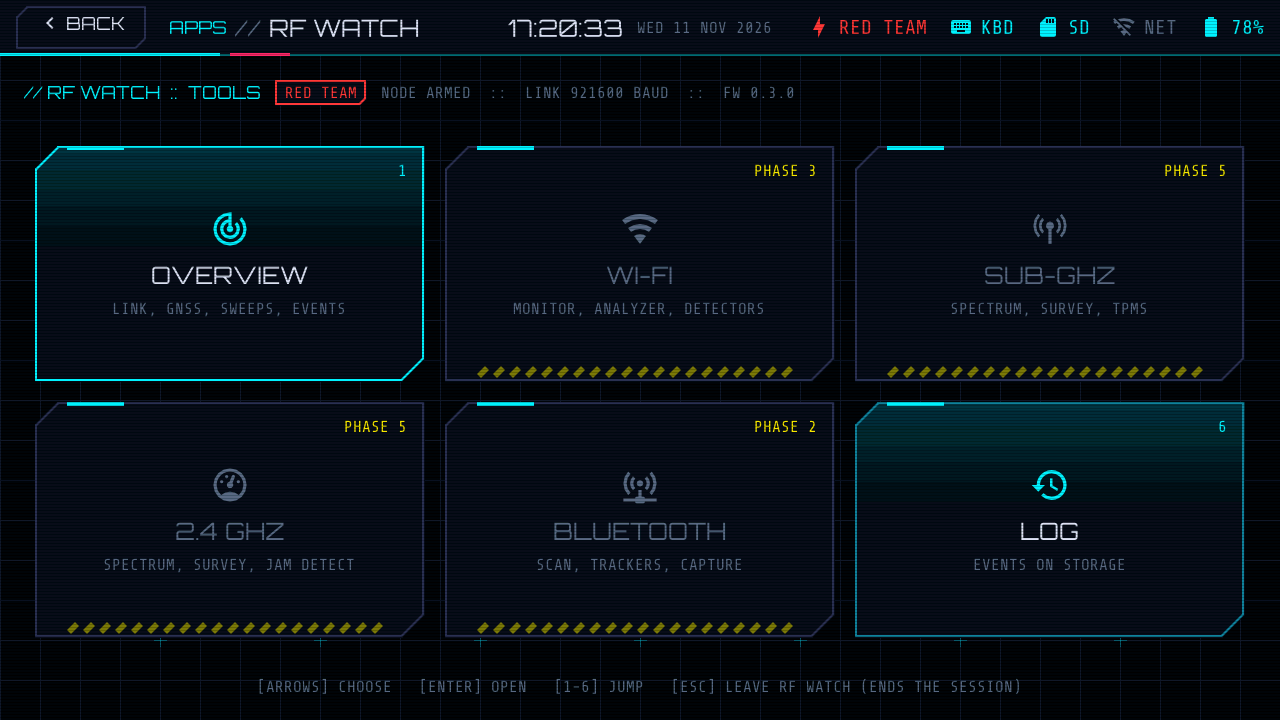
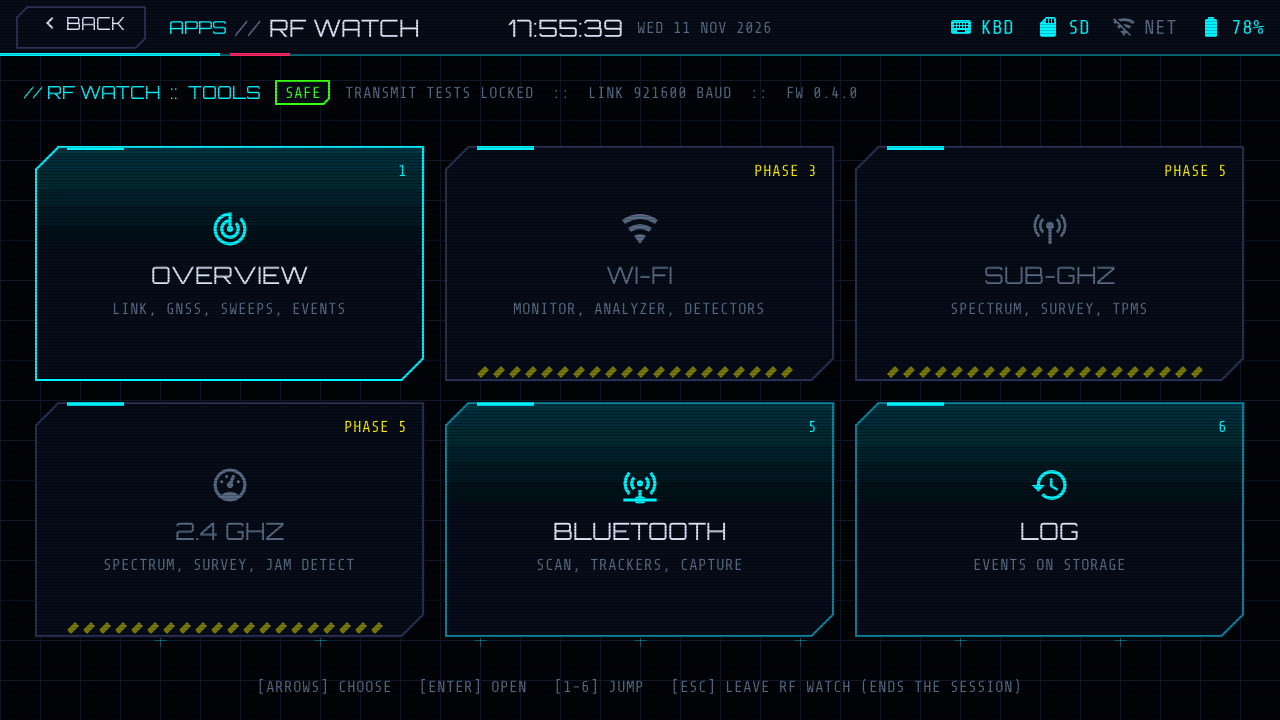
RF WATCH documents: Bluetooth
README describes the BLUETOOTH tool, the labels and the following rule,
with a screenshot. ROADMAP records phase 2 and its hardware checkpoint.
Recognised, harmless devices are drawn in the accent color, not the one
that reads as a warning.

diff --git a/apps/app_rf/rf_ble.c b/apps/app_rf/rf_ble.c
@@ -59,7 +59,7 @@ static lv_color_t kind_color(const sentinel_bdv_t *d, bool mine)
     if (mine) return g_pal.ok;
     if (sentinel_ble_is_surveillance(d->kind)) return g_pal.danger;
     if (sentinel_ble_is_tracker(d->kind)) return g_pal.warn;
-    return d->kind == SENTINEL_BLE_UNKNOWN ? g_pal.text : g_pal.accent2;
+    return d->kind == SENTINEL_BLE_UNKNOWN ? g_pal.text : g_pal.accent; /* recognised and harmless */
 }
 
 static void upper(char *s)
@@ -264,7 +264,7 @@ void rf_ble_build(lv_obj_t *parent)
     s_ble.sel_kind  = deck_label(p, g_font.disp_s, g_pal.text, "");
     s_ble.sel_who   = deck_label(p, g_font.mono_s, g_pal.text, "");
     s_ble.sel_sig   = deck_label(p, g_font.mono_s, g_pal.dim, "");
-    s_ble.sel_track = deck_label(p, g_font.mono_s, g_pal.accent2, "");
+    s_ble.sel_track = deck_label(p, g_font.mono_s, g_pal.dim, "");
     lv_obj_t *wrap[] = {s_ble.sel_who, s_ble.sel_track, s_ble.sel_kind};
     for (size_t i = 0; i < sizeof(wrap) / sizeof(wrap[0]); i++) {
         lv_obj_set_width(wrap[i], LV_PCT(100));

diff --git a/README.md b/README.md
@@ -56,9 +56,22 @@ health, the session, GNSS (fix, satellites, position, C/N0), the networks
 the C5 hears, the 433 MHz sweep (21 channels with peak hold), 2.4 GHz
 occupancy (126 channels of nRF24 carrier detect) and the newest events;
 `H` asks the C5 for HELLO, `P` pings it, `T` knocks on the transmit gate.
-**LOG** shows today's events from storage, newest first, with where the
-deck was. WI-FI, SUB-GHZ, 2.4 GHZ and BLUETOOTH are placeholders for the
+**BLUETOOTH** lists every BLE advertiser in earshot, strongest first, and
+labels what it recognises: trackers away from their owner (AirTag and other
+Find My tags, SmartTag, Tile, Chipolo, Google trackers) in yellow,
+surveillance devices (Flock by name, Axon by address prefix) in red. `F`
+filters, `M` marks a device as yours so it never alerts, `C` records every
+advertisement to a pcap file on the SD card. The scan is passive: the C5
+sends nothing. **LOG** shows today's events from storage, newest first, with
+where the deck was. WI-FI, SUB-GHZ and 2.4 GHZ are placeholders for the
 phases in the rf-sentinel ROADMAP.
+
+Tracker and surveillance detection run in the background too, in any app.
+A tracker heard for the first time is a line in the log. A tracker that
+stays with you is a warning: heard for ten minutes while the deck moved
+300 m, or for thirty minutes when there is no GPS fix to tell moving from
+sitting still. A label is a match against a published format, not proof,
+and a tracker that changes its address starts over as a new device.
 
 While RF WATCH is switched on in SETTINGS > APPLICATIONS the board is
 powered (EXT5V on the bus, CC1101 front end in receive: RX_EN on G16 high,
@@ -77,6 +90,8 @@ keyboard and nothing makes a sound. Switching the app off cuts EXT5V.
 | OVERVIEW | A warning while in TERMINAL |
 |---|---|
 | ![RF WATCH overview](docs/screenshots/rf_overview.png) | ![Notice banner](docs/screenshots/rf_banner.png) |
+
+![RF WATCH Bluetooth](docs/screenshots/rf_bluetooth.png)
 
 The protocol, the state record, the link state machine and the log formats
 are `sentinel_core`, a portable library in the rf-sentinel repo that the C5

diff --git a/ROADMAP.md b/ROADMAP.md
@@ -206,7 +206,8 @@ transmits is aimed at one chosen target, only in a RED TEAM session with
 the arm lease held. The full list is in the rf-sentinel ROADMAP; each phase
 adds a tool behind one of the placeholder tiles.
 
-- [ ] Phase 2, BLUETOOTH: scan, tracker alert (AirTag and friends), Flock and Axon detect, capture to pcap
+- [x] Phase 2, BLUETOOTH (with rf-sentinel 0.4.0): a passive scan on the C5, every advertiser listed with what it is, trackers and surveillance devices labelled, a warning when a tracker stays with the deck (ten minutes and 300 m, or thirty minutes without a fix), mark-as-mine, capture to pcap; detection runs in the background
+- [x] Checkpoint on hardware (2026-11-11): 62 real devices listed with names and vendors, Find My devices told apart by whether their owner is near, about 30 advertisements a second while sharing the radio with Wi-Fi and about 190 with the tool open, 2,057 frames captured to SD in 12 s with none lost, the radio handed back on leaving. The following rule is covered by tests only: it cannot be walked on a bench
 - [ ] Phase 3, WI-FI: packet monitor waterfall, channel analyzer, drone detect, attack detectors, honeypot
 - [ ] Phase 4: wardriving across every radio with GPS, record-only
 - [ ] Phase 5, SUB-GHZ and 2.4 GHZ: spectrum analyzer with history, IoT site survey, TPMS (433.92 MHz), jam detection

diff --git a/docs/superpowers/specs/2026-11-11-sentinel-suite-phase2-bluetooth-design.md b/docs/superpowers/specs/2026-11-11-sentinel-suite-phase2-bluetooth-design.md
@@ -101,3 +101,11 @@ a fix, marking, and address rotation. Simulator screenshots of the tool.
 Hardware: the C5 lists the real devices in the room, the deck shows them,
 capture writes frames. The following rule cannot be walked on the bench; it
 is covered by the core tests only.
+
+## As built (2026-11-11)
+
+Built as designed. On the Tab5 board the C5's table (48 devices) fills in a
+flat with many neighbours; the deck's table holds 96, so it keeps devices
+the node has already let go of for up to a minute. Flock and Axon labels
+and the following rule are untested against the real thing: no such device
+was in the room and the bench cannot walk.
